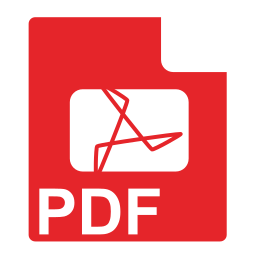
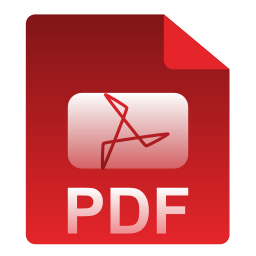
Update v0.2.2
Redesign my format files icon set and tweaking quota bar in admin side. (Admin don't have capacity to see users quota)

diff --git a/Index.php b/Index.php
@@ -298,7 +298,7 @@ if (isset($_GET['req'])) {
                     ?>
                 </div>
                 <div style="display: flex;">
-                    <a class="info_bottom"><svg xmlns="http://www.w3.org/2000/svg" width="24" height="24" viewBox="0 0 24 24" style="fill: white;"><path d="m21.484 7.125-9.022-5a1.003 1.003 0 0 0-.968 0l-8.978 4.96a1 1 0 0 0-.003 1.748l9.022 5.04a.995.995 0 0 0 .973.001l8.978-5a1 1 0 0 0-.002-1.749z"/><path d="m12 15.856-8.515-4.73-.971 1.748 9 5a1 1 0 0 0 .971 0l9-5-.971-1.748L12 15.856z"/><path d="m12 19.856-8.515-4.73-.971 1.748 9 5a1 1 0 0 0 .971 0l9-5-.971-1.748L12 19.856z"/></svg> 119.15032026</a>
+                    <a class="info_bottom"><svg xmlns="http://www.w3.org/2000/svg" width="24" height="24" viewBox="0 0 24 24" style="fill: white;"><path d="m21.484 7.125-9.022-5a1.003 1.003 0 0 0-.968 0l-8.978 4.96a1 1 0 0 0-.003 1.748l9.022 5.04a.995.995 0 0 0 .973.001l8.978-5a1 1 0 0 0-.002-1.749z"/><path d="m12 15.856-8.515-4.73-.971 1.748 9 5a1 1 0 0 0 .971 0l9-5-.971-1.748L12 15.856z"/><path d="m12 19.856-8.515-4.73-.971 1.748 9 5a1 1 0 0 0 .971 0l9-5-.971-1.748L12 19.856z"/></svg> 120.17032026</a>
                     <a class="info_bottom"><svg xmlns="http://www.w3.org/2000/svg" width="24" height="24" viewBox="0 0 24 24" style="fill: white;"><path d="M7.5 6.5C7.5 8.981 9.519 11 12 11s4.5-2.019 4.5-4.5S14.481 2 12 2 7.5 4.019 7.5 6.5zM20 21h1v-1c0-3.859-3.141-7-7-7h-4c-3.86 0-7 3.141-7 7v1h17z"></path></svg><?php echo XSS($name_login ?? '')?></a>
                     <a class="info_bottom"><svg xmlns="http://www.w3.org/2000/svg" width="24" height="24" viewBox="0 0 24 24" style="fill: white;"><circle cx="12" cy="12" r="4"></circle><path d="M13 4.069V2h-2v2.069A8.01 8.01 0 0 0 4.069 11H2v2h2.069A8.008 8.008 0 0 0 11 19.931V22h2v-2.069A8.007 8.007 0 0 0 19.931 13H22v-2h-2.069A8.008 8.008 0 0 0 13 4.069zM12 18c-3.309 0-6-2.691-6-6s2.691-6 6-6 6 2.691 6 6-2.691 6-6 6z"></path></svg> <?php echo XSS($user_ip)?></a>
                     <a class="info_bottom" id="timeDisplay" style="margin-right: 5px;">00/00/0000 | 0:00 ?M</a>
@@ -364,7 +364,7 @@ if (isset($_GET['req'])) {
                 <br><br>
                 <span>Welcome, </span><a style="font-family: 'Roboto', sans-serif; font-weight: bold;"><?php echo XSS($name_login ?? '')?>!</a>
                 <br><br>
-                <span>Current Build: 119.15032026</span>
+                <span>Current Build: 120.17032026</span>
                 <br><br>
                 <button class="normal_button" onclick="closeModalWelcome()">Ok</button>
             </div>

diff --git a/Element/home.php b/Element/home.php
@@ -206,7 +206,11 @@ $size_show = formatBytes($total_size);
             }
             ?>
         </div>
-        <div class="flex-div-bar">
+        <?php
+        if (!isset($_SESSION['AUTHENTICATE_ADMIN'])) {
+            ?>
+            <!-- Start of the quota bar -->
+            <div class="flex-div-bar">
             <div class="Card_Storage_Bar">
                     <div class="storage-center">
                         <h1 class="Info_Style_Bar"><?php echo XSS($Get_Name)?> Drive</h1>
@@ -233,5 +237,13 @@ $size_show = formatBytes($total_size);
                     <div style="width: 20px; height: 20px; background: #eee; border-radius: 5px;"></div><div class="Small_Info_Style"><?php echo $space_left?> Free</div>
                 </div>
             </div>
+            <!-- End of the quota bar -->
+            <?php
+        } else {
+            ?>
+            <h1 align="center" class="text_container">SORRY! ONLY AVAILABLE FOR USERS!</h1>
+            <?php
+        }
+        ?>
         </div>
 </html>

diff --git a/Element/help_path/about_info.php b/Element/help_path/about_info.php
@@ -83,7 +83,7 @@ if (!defined('NETE_INTEGRITY_CHECK')) {
             Made By: <a class="Custom_Link" href="https://github.com/PHUC-GIT" target="_blank">PHUC-GIT</a><br>
             <br>
             NET.ESCAPE CRYSTAL GEMS © 2024-2026 ALL RIGHT RESERVED<br>
-            Release: v0.2.1 - Build: 119.15032026<br> <!-- Away remember to changing this when you mess something in source. -->
+            Release: v0.2.2 - Build: 120.17032026<br> <!-- Away remember to changing this when you mess something in source. -->
             <br>
             GitHub Page: <a class="Custom_Link" href="https://github.com/PHUC-GIT/Project_NETE" target="_blank">Project_NET.E</a>
             <br>

diff --git a/Element/doc.php b/Element/doc.php
@@ -790,7 +790,7 @@
                     <?php
                 } else {
                     ?>
-                        <h1 align="center" class="text_container">THIS FOLDER IS EMPTY, LET'S UPLOAD SOMETHING! </h1>
+                        <h1 align="center" class="text_container">THIS FOLDER IS EMPTY, LET'S UPLOAD SOMETHING!</h1>
                     <?php
                 }
                 ?>
